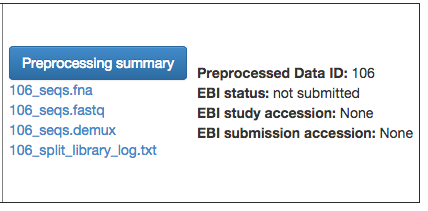
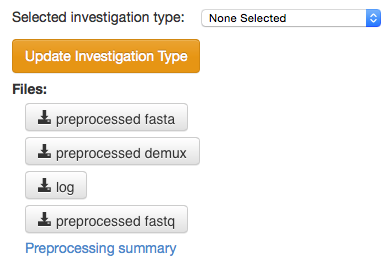
DOC: Update docs to reflect most recent version

diff --git a/qiita_pet/support_files/doc/source/tutorials/getting-started.rst b/qiita_pet/support_files/doc/source/tutorials/getting-started.rst
@@ -5,9 +5,11 @@
 Getting started
 ===============
 
-Note that this is a work in progress. Please let us know of any additions or
-changes you will like to see by emailing us at `qiita.help@gmail.com
-<qiita.help@gmail.com>`__. Thanks!
+
+.. note::
+   This is a work in progress. Please let us know of any additions or changes
+   you will like to see by emailing us at `qiita.help@gmail.com
+   <qiita.help@gmail.com>`__.
 
 If you have not yet created an account, please see the document
 :doc:`account-creation`.
@@ -84,8 +86,9 @@ to create your study.
 
 The “Study Title” has to be unique system-wide. Qiita will check this
 when you try to create the study, and may ask you to alter the study
-name if the one you provide is already in use..\ |Screen Shot 2015-02-23
-at 9.08.35 AM.png|
+name if the one you provide is already in use.
+
+|studycreation|
 
 A principal investigator is required, and a list of known PIs is
 provided. If you cannot find the name you are looking for in this
@@ -191,42 +194,42 @@ enforced in the sample and prep templates:
 +-----------------------+--------------+
 
 
-Adding raw data
----------------
+Adding a preparation template and linking it to raw data
+--------------------------------------------------------
 
 Once the sample template is successfully processed, you will be able to
-use the “Add raw data” tab. You can either (a) select a new raw data
-file from the drop-down menu of uploaded files or (b) add raw data from
-another study to which you have access. The latter ability exists as a
-way to avoid duplication of uploads, since some studies share the same
-raw data (for example, the same fastq files). Note that the prep
-templates are not shared.
+use the “Add prep template” tab.
 
-|image18|
+|addpreptemplate|
 
-Linking files and adding preparation (prep) templates
------------------------------------------------------
+After you've added a new prep template, you can either (a) select a new raw
+data file from the drop-down menu of uploaded files or (b) add raw data from
+another study to which you have access. The latter ability exists as a way to
+avoid duplication of uploads, since some studies share the same raw data (for
+example, the same fastq files).
 
-|image19|
+.. note::
+   Prep templates are not shared, only raw data can be shared.
 
-After adding raw data to your study, you can add a prep template and
-link uploaded raw files through the raw file object (tab). On the left
-side of the tab you will have a list of all the updated files. To link
-them to this tab you need to select which files are the forward and the
-barcodes reads. You can also add which are the reverse reads but these
-are optional. Once the selections are made you can “Link raw files for:
-name of your raw data”. This action will take you to a new page, where
-the moving/adding job is created, but you can move out of there whenever
-you want. Note that from that moment until the job is finish, you will
-see a “Linking files” message and you will not be able to add any more
-files or unlink them.  |image20|
+Here you should select what kind of data you are processing (SFF, FASTQ, etc).
+Once the selections are made you can “Link” your raw data. This action will
+take you to a new page, where the moving/adding job is created, but you can
+move out of there whenever you want.
+
+|newrawdata|
+
+.. note::
+   From that moment until the job is finish, you will see a “Linking files”
+   message and you will not be able to add any more files or unlink them.
 
 Adding prep templates is similar to adding sample templates except that,
 in addition to selecting the prep template file from the dropdown menu,
 you will also need to select what kind of prep template (16S, 18S, etc)
 and the corresponding investigation type. The investigation type is
 optional for Qiita, but a requirement for submitting your data to
-EBI.\ |image21|
+EBI.
+
+|image21|
 
 Finally, when you add a new prep template, you will get two new links or
 two full paths for those running Qiita on your local machine: one to
@@ -243,14 +246,15 @@ Currently we only support fastq files for target gene preprocessing
 (including reverse complementing the prep template barcodes). We are
 working on adding more options and preprocessing pipelines.
 
-Once the preprocessing is finished you will have 4 new files:\ |image22|
+|image22|
 
--  \*\_seqs.fna: demultiplexed sequences in fasta format
--  \*\_seqs.fastq: demultiplexed sequences in fastq format
--  \*\_seqs.demux: demultiplexed sequences in an HDF5 format (more
-   below)
--  \*\_split\_library\_log: the classic QIIME split libraries log that
-   summarizes the demultiplexing process
+Once the preprocessing is finished you will have 4 new files:
+
+-  preprocessed fasta: demultiplexed sequences in fasta format
+-  preprocessed demux: demultiplexed sequences in an HDF5 format (more
+   demultiplexing process below)
+-  log: the classic QIIME split libraries log that summarizes the
+-  preprocessed fastq: demultiplexed sequences in fastq format.
 
 The HDF5 demuliplexed file format allows (described in detail
 `here <https://www.google.com/url?q=https%3A%2F%2Fgithub.com%2Fbiocore%2Fqiita%2Fblob%2Fmaster%2Fqiita_ware%2Fdemux.py&sa=D&sntz=1&usg=AFQjCNEzzqKW3-c5dtMDOpLxCS8mnrQn1A>`__)
@@ -335,6 +339,8 @@ Study status
 Metadata
 ========
 
+TODO!
+
 Analyses
 ========
 
@@ -405,7 +411,8 @@ A few more instructions: for the example above the workflow should be:
    demultiplexing and QC.
 
 .. |image8| image:: images/image18.png
-.. |Screen Shot 2015-02-23 at 9.08.35 AM.png| image:: images/image02.png
+.. |studycreation| image:: images/image02.png
+.. |addpreptemplate| image:: images/add-prep-template.png
 .. |image10| image:: images/image04.png
 .. |image11| image:: images/image09.png
 .. |image12| image:: images/image17.png
@@ -414,9 +421,7 @@ A few more instructions: for the example above the workflow should be:
 .. |image15| image:: images/image12.png
 .. |image16| image:: images/image00.png
 .. |image17| image:: images/image15.png
-.. |image18| image:: images/image06.png
-.. |image19| image:: images/image21.png
-.. |image20| image:: images/image16.png
+.. |newrawdata| image:: images/new-raw-data.png
 .. |image21| image:: images/image11.png
 .. |image22| image:: images/image08.png
 
